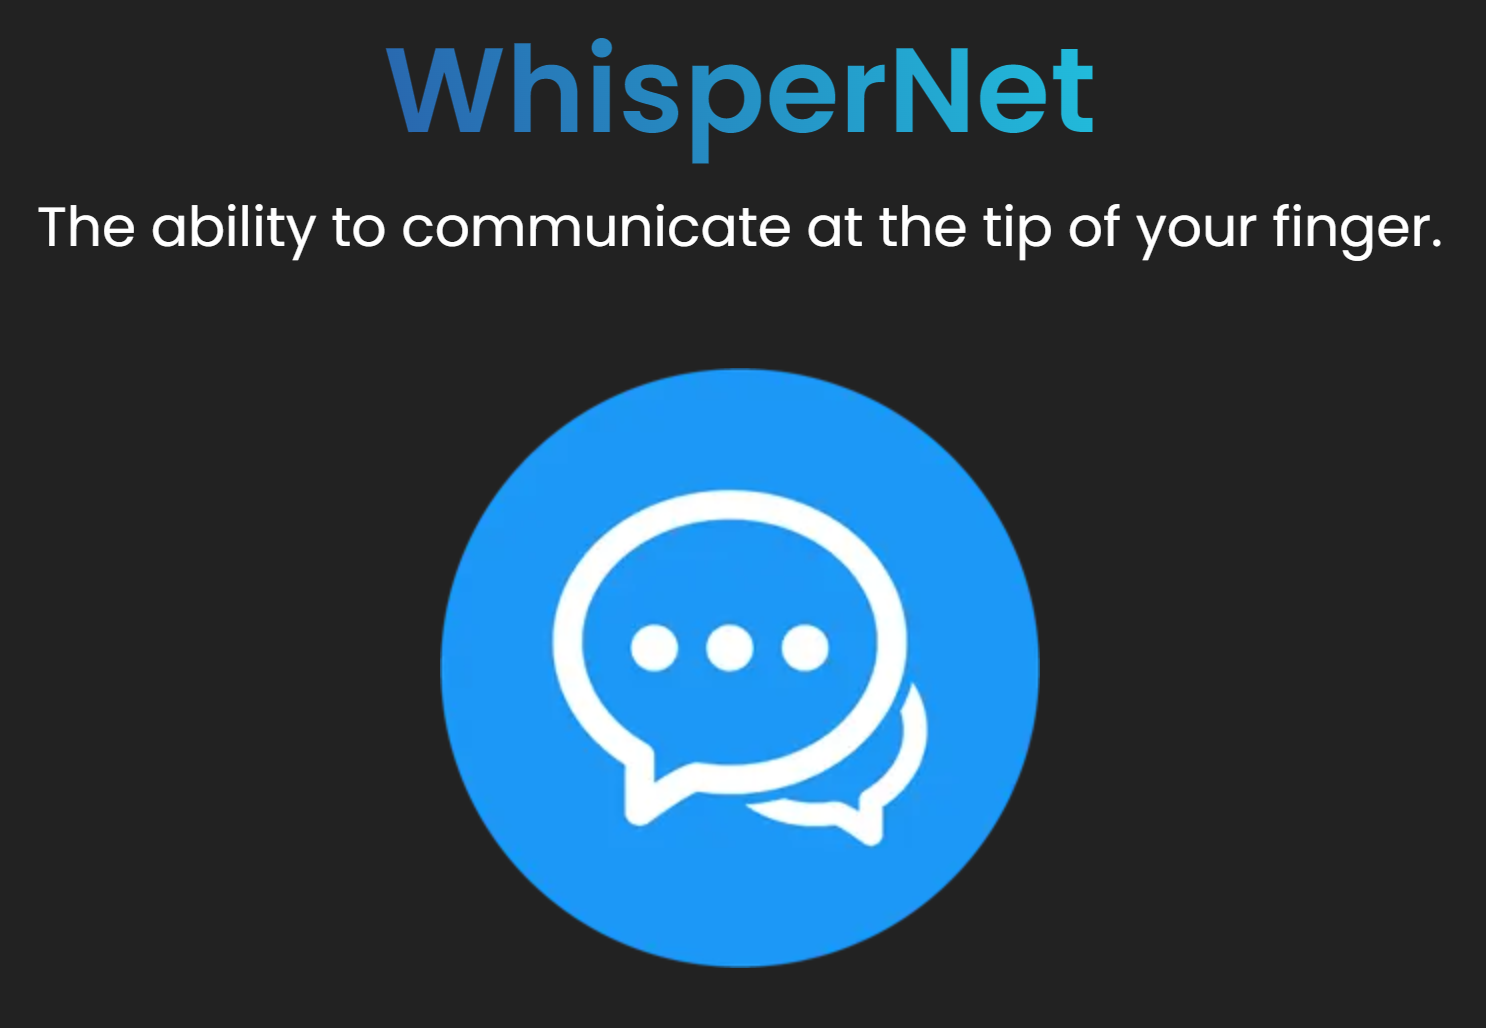
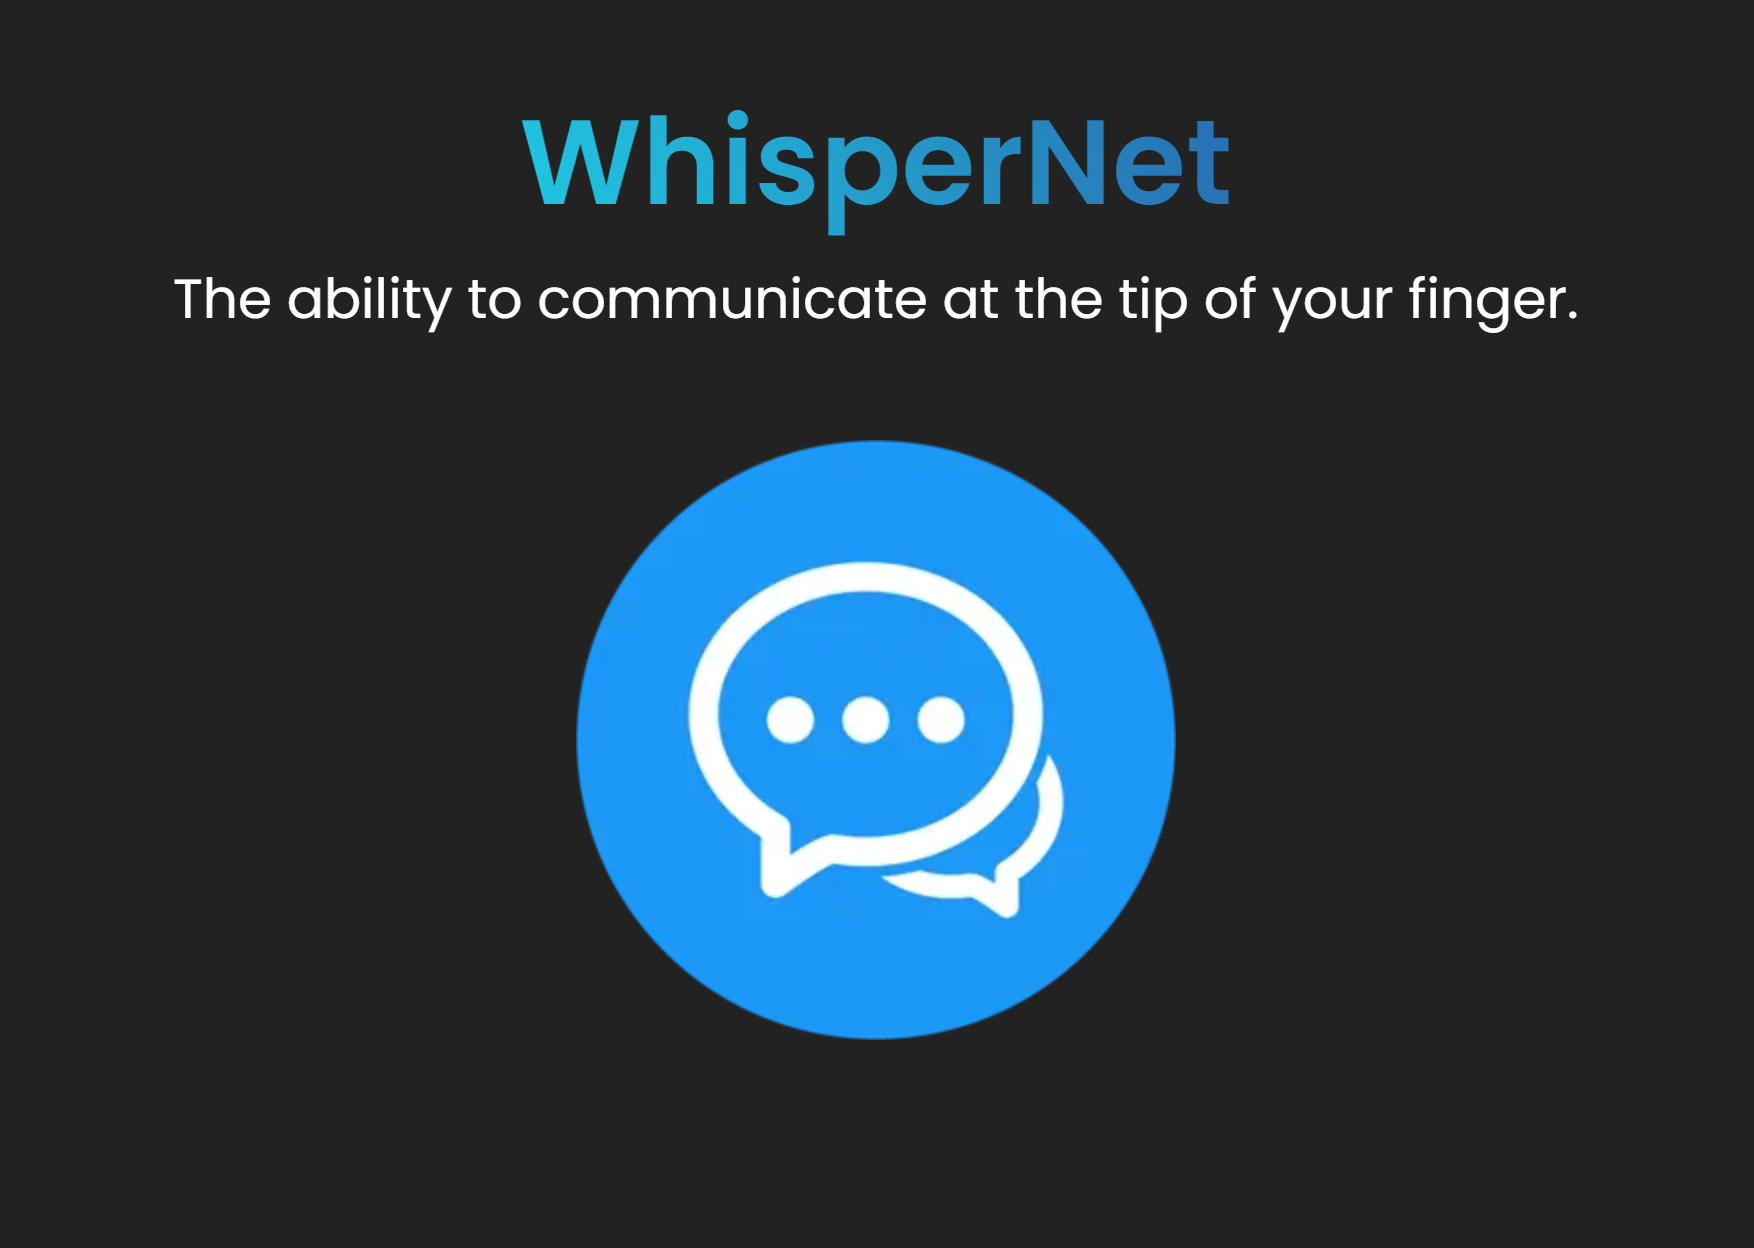
Update README.md and opengraph image

diff --git a/README.md b/README.md
@@ -1,6 +1,6 @@
 # Realtime Chat App built with Next JS
 
-This is a Next JS chat app using [Upstash](https://upstash.com) as the database manager and [Socket.io](https://www.npmjs.com/package/socket.io) for the realtime functionality.
+This is a [Next JS](https://nextjs.org) chat app using [Upstash](https://upstash.com) for the Redis database and [Socket.io](https://www.npmjs.com/package/socket.io) for the realtime functionality deployed on [Vercel](https://vercel.com/home).
 
 ## DISCLAIMER
 
